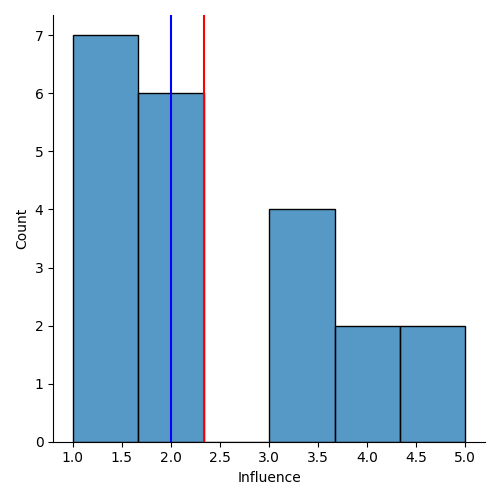
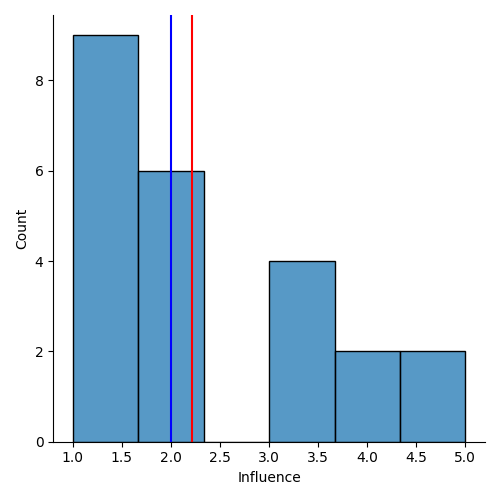
added possibility to save all plots in once and updated dataset

diff --git a/ETMProject.py b/ETMProject.py
@@ -6,19 +6,25 @@ from statistics import median
 from rich_dataframe import prettify
 import seaborn as sns
 
-# PARSER 
+# PARSER
 
-parser = argparse.ArgumentParser(description="a simple python script to visualize better, csv data")
-parser.add_argument("criteria",type=str,help="argument to plot",choices=["earnings","project","algorithm","social","influence","chart"])
-parser.add_argument("-v","--verbose",help="print some useful information",action="store_true")
-parser.add_argument("-t","--table",help="visualize data with a nice table",action="store_true")
-parser.add_argument("-s","--save",help="save plot in 'plots' folder",action="store_true")
+parser = argparse.ArgumentParser(
+    description="a simple python script to visualize better, csv data")
+parser.add_argument("criteria", type=str, help="argument to plot", choices=[
+                    "earnings", "project", "algorithm", "social", "influence", "chart", "save-all"])
+parser.add_argument("-v", "--verbose",
+                    help="print some useful information", action="store_true")
+parser.add_argument(
+    "-t", "--table", help="visualize data with a nice table", action="store_true")
+parser.add_argument(
+    "-s", "--save", help="save plot in 'plots' folder", action="store_true")
 args = parser.parse_args()
 
 df = pd.read_csv('Sondaggio cryptovalute.csv')
 rows = df.shape[0]
 cols = df.shape[1]
-df = df.rename(columns={'Attualmente:':'Status','Quando acquisti delle cryptovalute, quanto è importante per te il possibile guadagno a breve-medio termine?':'Earnings',"Quando acquisti delle cryptovalute, quanto è importante per te la mission e vision del progetto che c'è dietro?":'Project',"Quando acquisti delle cryptovalute, quanto è importante l'algoritmo di consenso (ad esempio Proof of Work o Proof of Stake) che c'è dietro?":"Algorithm",'Valuta quanto sei d\'accordo con la seguente affermazione: "Prima di investire soldi in cryptovalute, preferisco informarmi con podcast,siti e social come Reddit,Telegram ecc."':'Social','Valuta quanto sei d\'accordo con la seguente affermazione: "Ho investito dei soldi in cryptovalute perché sono stato incuriosito da altri famosi influencer (ad esempio Elon Musk), che lo hanno fatto."':'Influence',"Siamo alla fine del sondaggio, come ultimo task vorrei chiederti di ordinare in ordine di importanza alcuni aspetti legati alle cryptovalute. N.B. 1 rappresenta quello più importante per te, mentre 5 quello meno importante. [1]":"chart1","Siamo alla fine del sondaggio, come ultimo task vorrei chiederti di ordinare in ordine di importanza alcuni aspetti legati alle cryptovalute. N.B. 1 rappresenta quello più importante per te, mentre 5 quello meno importante. [2]":"chart2","Siamo alla fine del sondaggio, come ultimo task vorrei chiederti di ordinare in ordine di importanza alcuni aspetti legati alle cryptovalute. N.B. 1 rappresenta quello più importante per te, mentre 5 quello meno importante. [3]":"chart3","Siamo alla fine del sondaggio, come ultimo task vorrei chiederti di ordinare in ordine di importanza alcuni aspetti legati alle cryptovalute. N.B. 1 rappresenta quello più importante per te, mentre 5 quello meno importante. [4]":"chart4","Siamo alla fine del sondaggio, come ultimo task vorrei chiederti di ordinare in ordine di importanza alcuni aspetti legati alle cryptovalute. N.B. 1 rappresenta quello più importante per te, mentre 5 quello meno importante. [5]":"chart5"})
+df = df.rename(columns={'Attualmente:': 'Status', 'Quando acquisti delle cryptovalute, quanto è importante per te il possibile guadagno a breve-medio termine?': 'Earnings', "Quando acquisti delle cryptovalute, quanto è importante per te la mission e vision del progetto che c'è dietro?": 'Project', "Quando acquisti delle cryptovalute, quanto è importante l'algoritmo di consenso (ad esempio Proof of Work o Proof of Stake) che c'è dietro?": "Algorithm", 'Valuta quanto sei d\'accordo con la seguente affermazione: "Prima di investire soldi in cryptovalute, preferisco informarmi con podcast,siti e social come Reddit,Telegram ecc."': 'Social', 'Valuta quanto sei d\'accordo con la seguente affermazione: "Ho investito dei soldi in cryptovalute perché sono stato incuriosito da altri famosi influencer (ad esempio Elon Musk), che lo hanno fatto."': 'Influence',
+               "Siamo alla fine del sondaggio, come ultimo task vorrei chiederti di ordinare in ordine di importanza alcuni aspetti legati alle cryptovalute. N.B. 1 rappresenta quello più importante per te, mentre 5 quello meno importante. [1]": "chart1", "Siamo alla fine del sondaggio, come ultimo task vorrei chiederti di ordinare in ordine di importanza alcuni aspetti legati alle cryptovalute. N.B. 1 rappresenta quello più importante per te, mentre 5 quello meno importante. [2]": "chart2", "Siamo alla fine del sondaggio, come ultimo task vorrei chiederti di ordinare in ordine di importanza alcuni aspetti legati alle cryptovalute. N.B. 1 rappresenta quello più importante per te, mentre 5 quello meno importante. [3]": "chart3", "Siamo alla fine del sondaggio, come ultimo task vorrei chiederti di ordinare in ordine di importanza alcuni aspetti legati alle cryptovalute. N.B. 1 rappresenta quello più importante per te, mentre 5 quello meno importante. [4]": "chart4", "Siamo alla fine del sondaggio, come ultimo task vorrei chiederti di ordinare in ordine di importanza alcuni aspetti legati alle cryptovalute. N.B. 1 rappresenta quello più importante per te, mentre 5 quello meno importante. [5]": "chart5"})
 
 # FILTERING DATASET
 
@@ -26,14 +32,15 @@ df_students = df.loc[df['Status'] == 'Studio']
 df_workers = df.loc[df['Status'] == 'Lavoro']
 df_both = df.loc[df['Status'] == 'Entrambe']
 df_neither = df.loc[df['Status'] == 'Nessuna delle due']
-df_chart = df[["chart1", "chart2","chart3","chart4","chart5"]]
+df_chart = df[["chart1", "chart2", "chart3", "chart4", "chart5"]]
 
 
 # SHOWING THE DATA
 
 if args.table:
-    table = prettify(df,row_limit=100,col_limit=20)
+    table = prettify(df, row_limit=100, col_limit=20)
     print(table)
+
 
 def describe_dataset():
     print(df.describe())
@@ -41,31 +48,54 @@ def describe_dataset():
     print(df_workers.describe())
     print(df_both.describe())
 
-def get_dataset_size(criteria):
-        print(df.groupby([criteria]).size())
-        print(df_students.groupby([criteria]).size())
-        print(df_workers.groupby([criteria]).size())
-        print(df_both.groupby([criteria]).size())
 
-def save_plot(criteria,category):
+def get_dataset_size(criteria):
+    print(df.groupby([criteria]).size())
+    print(df_students.groupby([criteria]).size())
+    print(df_workers.groupby([criteria]).size())
+    print(df_both.groupby([criteria]).size())
+
+
+def save_plot(criteria, category):
     plt.savefig('plots/' + criteria + category + '.png')
+
+
+def save_all(criteria):
+    if args.verbose:
+        describe_dataset()
+    for i in criteria:
+        mean = df[i].mean()
+        median = df[i].median()
+        #print("mean: " + str(mean) + ", median: " + str(median))
+        if args.verbose:
+            get_dataset_size(i)
+        sns.displot(df, x=i, bins=10, palette="rocket",
+                    hue="Status", multiple="dodge")
+        save_plot(i.lower(), "_specific")
+        sns.displot(df, x=i)
+        plt.axvline(x=mean, color='red')
+        plt.axvline(x=median, color='blue')
+        save_plot(i.lower(), "_general")
+
 
 def plot_data(criteria):
     mean = df[criteria].mean()
     median = df[criteria].median()
-    if args.verbose:    
+    if args.verbose:
         describe_dataset()
         get_dataset_size(criteria)
-    sns.displot(df, x=criteria,bins=10,palette="rocket",hue="Status", multiple="dodge")
+    sns.displot(df, x=criteria, bins=10, palette="rocket",
+                hue="Status", multiple="dodge")
     if args.save:
-        save_plot(criteria.lower(),"_specific")
-    sns.displot(df,x=criteria)
-    plt.axvline(x=mean,color='red')
-    plt.axvline(x=median,color='blue')
+        save_plot(criteria.lower(), "_specific")
+    sns.displot(df, x=criteria)
+    plt.axvline(x=mean, color='red')
+    plt.axvline(x=median, color='blue')
     if args.save:
-        save_plot(criteria.lower(),"_general")
+        save_plot(criteria.lower(), "_general")
     plt.show()
-    
+
+
 match args.criteria:
     case 'earnings':
         plot_data("Earnings")
@@ -79,9 +109,9 @@ match args.criteria:
         plot_data("Influence")
     case 'chart':
         total = 0
-        for i in range(1,6):
-            print("--- " + str(i) + "th PLACE ---" + "\n" + "------------------- \n" 
-                + "--- GENERAL --- \n" + "-------------------")
+        for i in range(1, 6):
+            print("--- " + str(i) + "th PLACE ---" + "\n" + "------------------- \n"
+                  + "--- GENERAL --- \n" + "-------------------")
             print(df.groupby(['chart' + str(i)]).size())
             try:
                 a = df.groupby(['chart' + str(i)]).size() * (6 - i)
@@ -89,8 +119,10 @@ match args.criteria:
             except KeyError:
                 a["Redditività"] = 0
             total += a
-            print("--- " + str(i) + "th PLACE ---" + "\n" + "------------------- \n" 
-                + "--- WEIGHTED --- \n" + "-------------------")
+            print("--- " + str(i) + "th PLACE ---" + "\n" + "------------------- \n"
+                  + "--- WEIGHTED --- \n" + "-------------------")
             print(total.sort_values(ascending=False))
             print("\n")
-        
+    case 'save-all':
+        l = ["Earnings", "Project", "Algorithm", "Social", "Influence"]
+        save_all(l)

diff --git a/README.md b/README.md
@@ -16,6 +16,10 @@ Lo script ha come parametro necessario "criteria" che va specificato da riga di 
 ``` bash
 python .\ETMProject.py earnings 
 ```
+E' possibile salvare tutti i grafici in una volta sola nella cartella plots (senza visualizzarli) con il parametro "save-all":
+``` bash
+python .\ETMProject.py save-all
+```
 > per visualizzare tutti i possibili parametri puoi usare il comando di help:
 ``` bash
 python .\ETMProject.py -h
